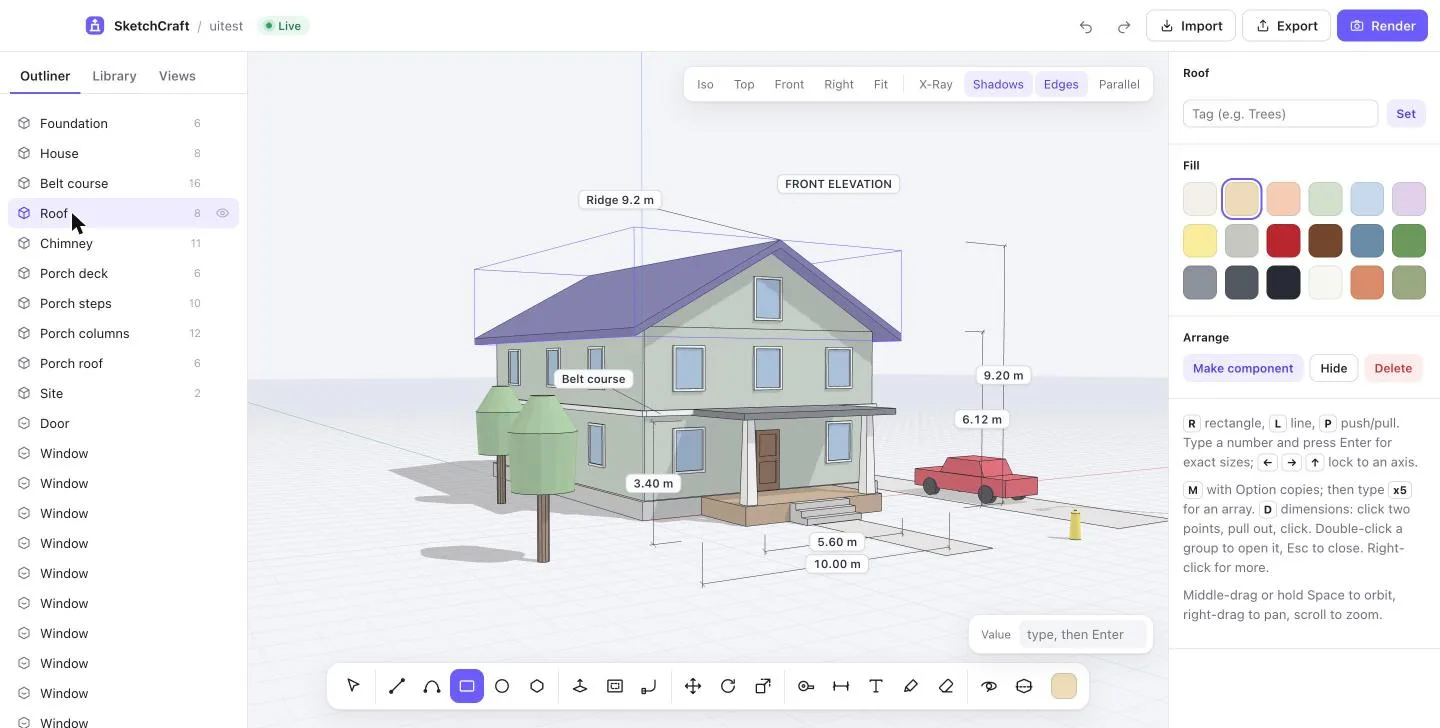
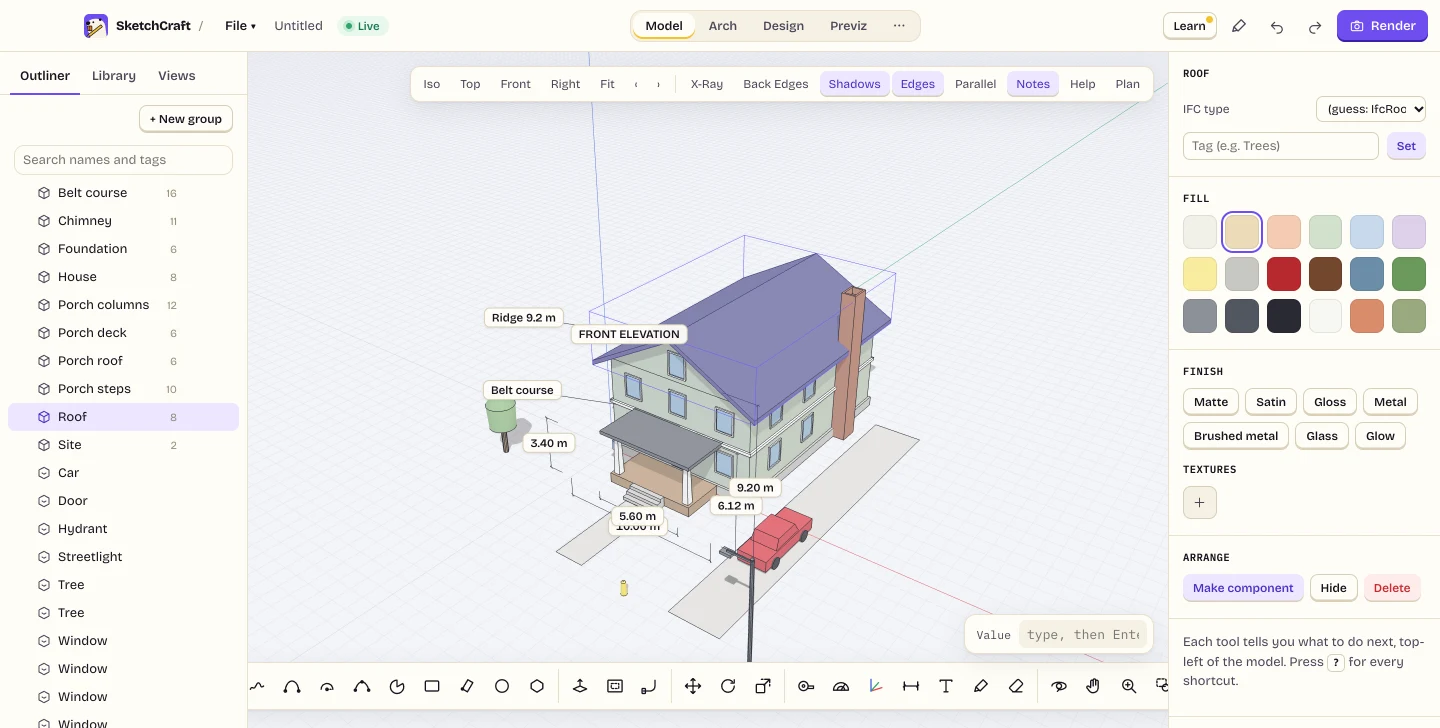
SketchCraft: a current screenshot for the hero image

diff --git a/src/content/docs/apps/sketchcraft/overview.md b/src/content/docs/apps/sketchcraft/overview.md
@@ -11,7 +11,7 @@ SketchCraft is an independent, community-developed application created and maint
 
 SketchCraft is an open-source push/pull 3D modeler written in Rust. Draw an outline on the ground or on any face, pull it up into a solid, and keep shaping: cut a door into a wall, raise a ridge line into a gable roof, sweep trim around the eaves, and dimension the result as an elevation.
 
-![SketchCraft workspace showing a dimensioned two-story house with the outliner, floating toolbar, and shadows](/assets/uploads/sketchcraft/hero.webp)
+![SketchCraft workspace showing a dimensioned two-story Craftsman house with the outliner, view bar, finishes and shadows](/assets/uploads/sketchcraft/hero.webp)
 
 ## Features
 
